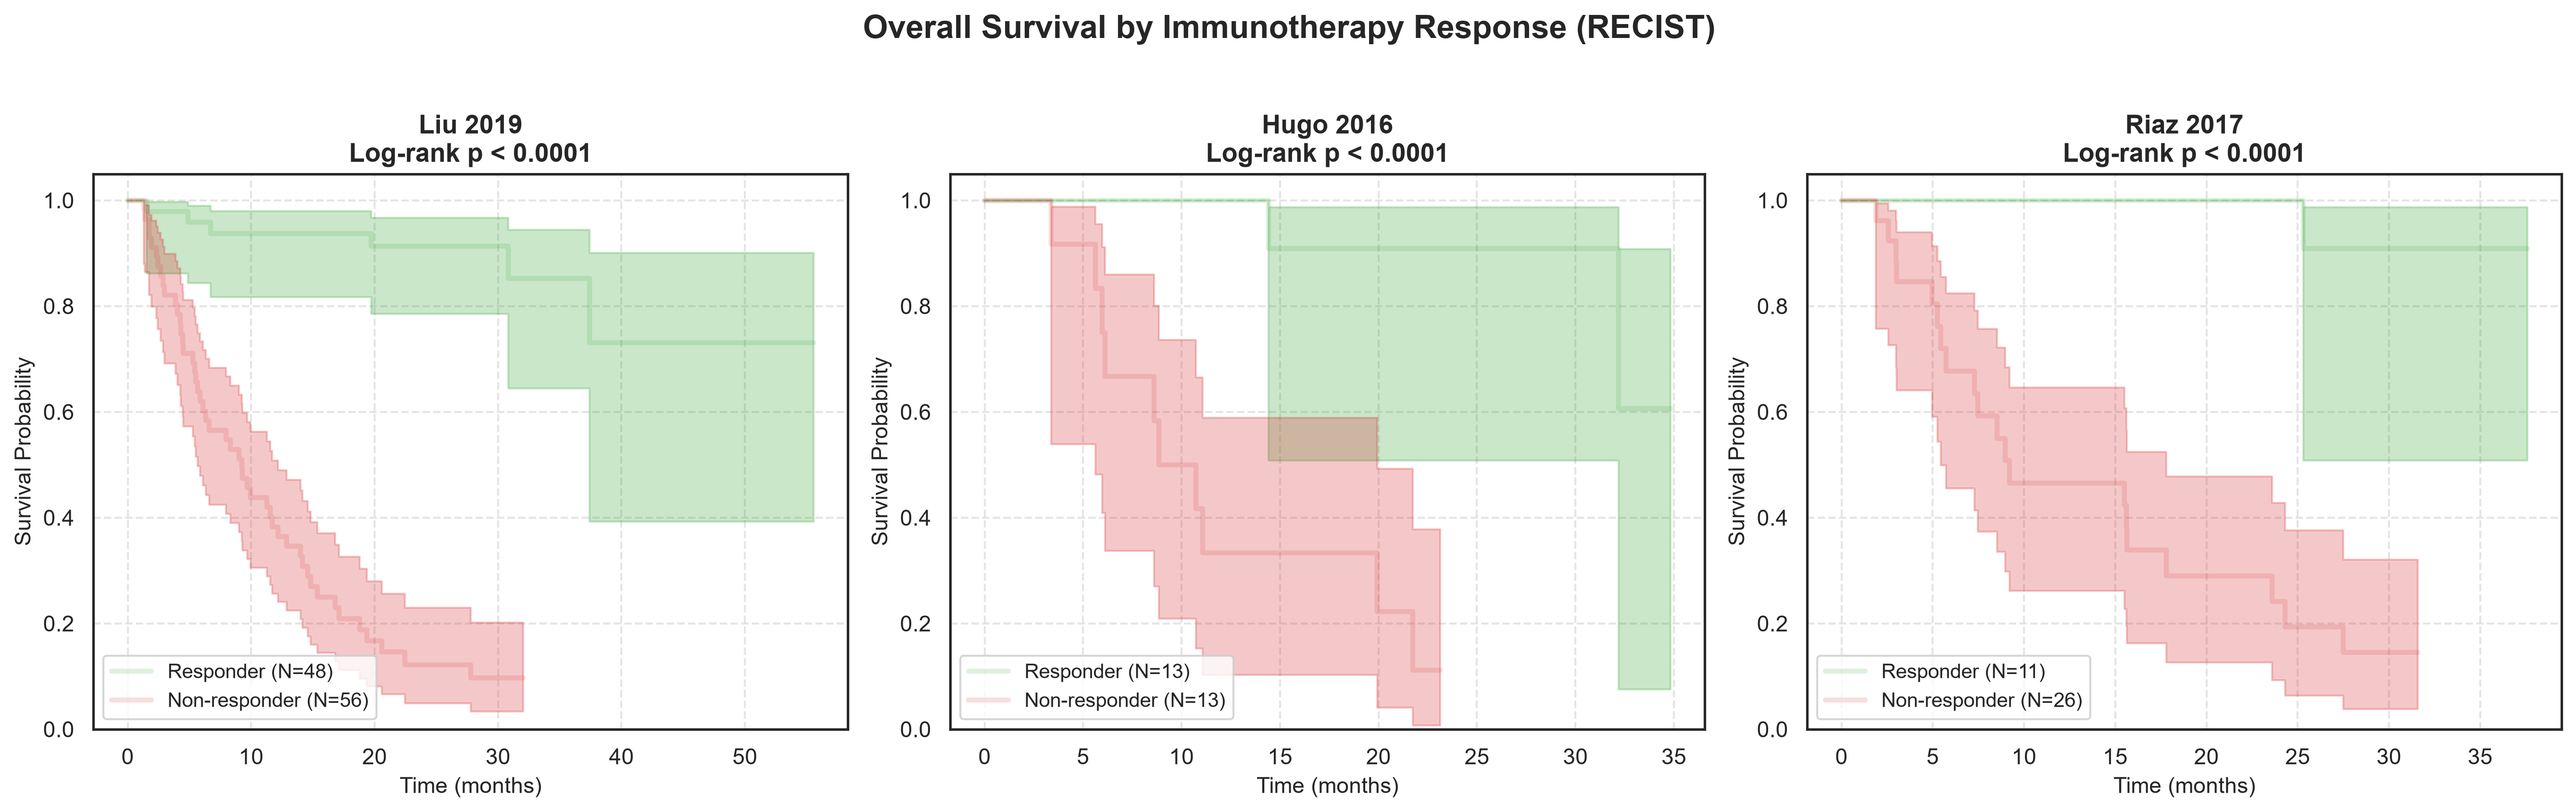
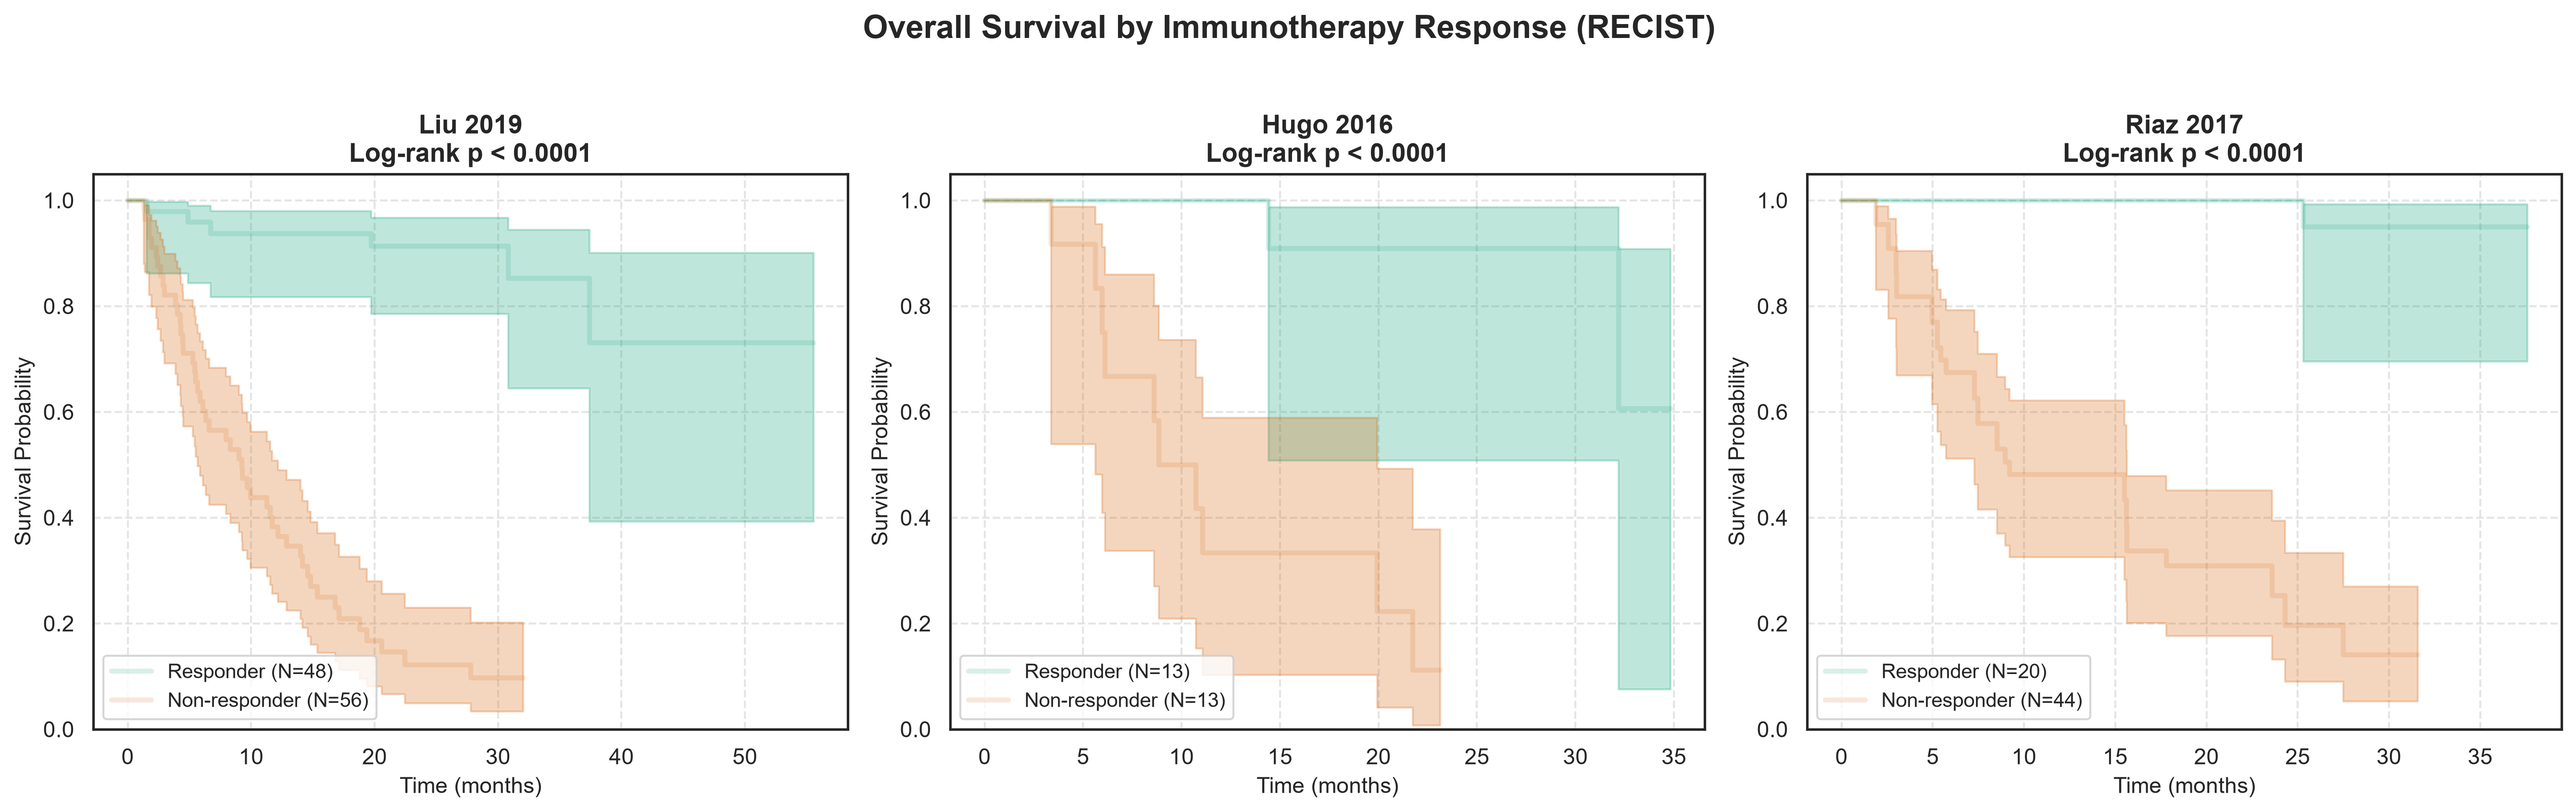
style(clinical): update all figures in cohort_characteristics_clinical.md to Okabe-Ito gold standard

diff --git a/q1-response-predictor/scripts/exploratory_plots/run_forest_plot.py b/q1-response-predictor/scripts/exploratory_plots/run_forest_plot.py
@@ -120,8 +120,9 @@ def main():
     df_plot = pd.DataFrame(plot_data)
     print(df_plot)
 
-    # Plotting Forest Plot
-    sns.set_theme(style="whitegrid")
+    from src.styles import RESPONSE_PALETTE, set_presentation_style
+
+    set_presentation_style()
     fig, ax = plt.subplots(figsize=(11, 6.5))
 
     # Reverse order for plotting from top to bottom
@@ -130,7 +131,7 @@ def main():
     y_pos = np.arange(len(df_plot))
     
     # Plot vertical line at OR = 1.0 (No Effect)
-    ax.axvline(1.0, color='#e05a47', linestyle='--', linewidth=1.5, zorder=1)
+    ax.axvline(1.0, color='#555555', linestyle='--', linewidth=1.5, zorder=1)
     
     # Plot Odds Ratios and Confidence Intervals
     for i in range(len(df_plot)):
@@ -139,7 +140,7 @@ def main():
         or_val = row['OR']
         
         if is_sig:
-            color = '#2b8cbe' if or_val > 1.0 else '#e05a47'
+            color = RESPONSE_PALETTE['CR/PR'] if or_val > 1.0 else RESPONSE_PALETTE['PD']
             weight = 'bold'
         else:
             color = '#777777'
@@ -182,8 +183,8 @@ def main():
     # Add a custom legend explaining the colors
     import matplotlib.lines as mlines
     legend_elements = [
-        mlines.Line2D([0], [0], marker='s', color='none', markerfacecolor='#e05a47', markeredgecolor='none', markersize=8, label='Significant Risk / Harmful (p < 0.05, OR < 1.0)'),
-        mlines.Line2D([0], [0], marker='s', color='none', markerfacecolor='#2b8cbe', markeredgecolor='none', markersize=8, label='Significant Protective / Beneficial (p < 0.05, OR > 1.0)'),
+        mlines.Line2D([0], [0], marker='s', color='none', markerfacecolor=RESPONSE_PALETTE['PD'], markeredgecolor='none', markersize=8, label='Significant Harmful / Lower Odds (p < 0.05, OR < 1.0)'),
+        mlines.Line2D([0], [0], marker='s', color='none', markerfacecolor=RESPONSE_PALETTE['CR/PR'], markeredgecolor='none', markersize=8, label='Significant Beneficial / Higher Odds (p < 0.05, OR > 1.0)'),
         mlines.Line2D([0], [0], marker='s', color='none', markerfacecolor='#777777', markeredgecolor='none', markersize=8, label='Non-Significant (p \u2265 0.05)')
     ]
     ax.legend(

diff --git a/q1-response-predictor/scripts/exploratory_plots/run_response_km_curves.py b/q1-response-predictor/scripts/exploratory_plots/run_response_km_curves.py
@@ -21,6 +21,8 @@ DATA_DIR = BASE_DIR / "data"
 PLOT_DIR = BASE_DIR / "plots" / "clinical"
 PLOT_DIR.mkdir(exist_ok=True, parents=True)
 
+from src.styles import RESPONSE_PALETTE, set_presentation_style
+
 def plot_cohort_km_by_response(ax, df_clin, cohort_name):
     # normalise survival column names
     time_col = 'os_months' if 'os_months' in df_clin.columns else ('OS_MONTHS' if 'OS_MONTHS' in df_clin.columns else None)
@@ -52,8 +54,8 @@ def plot_cohort_km_by_response(ax, df_clin, cohort_name):
     kmf_nr.fit(non_responders[time_col], event_observed=non_responders[event_col])
 
     # Plot
-    kmf_r.plot_survival_function(ax=ax, color="#2ca02c", linewidth=2.5, ci_show=True, alpha=0.15, label=f"Responder (N={len(responders)})")
-    kmf_nr.plot_survival_function(ax=ax, color="#d62728", linewidth=2.5, ci_show=True, alpha=0.15, label=f"Non-responder (N={len(non_responders)})")
+    kmf_r.plot_survival_function(ax=ax, color=RESPONSE_PALETTE["CR/PR"], linewidth=2.5, ci_show=True, alpha=0.15, label=f"Responder (N={len(responders)})")
+    kmf_nr.plot_survival_function(ax=ax, color=RESPONSE_PALETTE["PD"], linewidth=2.5, ci_show=True, alpha=0.15, label=f"Non-responder (N={len(non_responders)})")
 
     # Log-rank test
     results = logrank_test(responders[time_col], non_responders[time_col],
